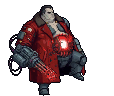
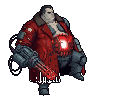
Basili phase-2 stomp: torn skirt (hanging strips like the phase-2 walk hem); torn_hem.py added to the skill
Claude-Session: https://claude.ai/code/session_01KZt8jCbpv5PPyFyQcbK33v

Changed region(s): [[0.3158, 0.7188, 0.5263, 0.875], [0.2632, 0.8125, 0.2895, 0.8438], [0.2632, 0.75, 0.2895, 0.7812]]

diff --git a/.claude/skills/phase-variant-transfer/scripts/torn_hem.py b/.claude/skills/phase-variant-transfer/scripts/torn_hem.py
@@ -1,0 +1,43 @@
+"""Torn skirt for phase-2 frames, modelled on the approved phase-2 walk hem: the bottom band of the coat skirt
+turns into hanging strips (dark red, from the walk's tatter colours) with gaps between them. The strip pattern
+is tied to the skirt's left edge so it moves with the coat from frame to frame."""
+import numpy as np
+from PIL import Image
+OUT=np.array([7,6,15])
+red=lambda a:(a[...,3]>0)&(a[...,0]>a[...,2]+30)&(a[...,0]<200)&(a[...,1]<110)
+p=np.array(Image.open(__import__('sys').argv[1]).convert('RGBA')).astype(int)
+reg=p[70:92,10:42].reshape(-1,4); TP=np.array(sorted({tuple(c[:3]) for c in reg if c[3]>0 and c[0]>c[2]+25 and c[0]<200},key=sum))
+GAP=[0,0,1,0,0,1,1,0,0,0,1,0,0,1,0,1,0,0,0,1,1,0,0,1]           # 1 = gap column
+LEN=[11,13,9,12,10,14,8,12,11,9,13,10,12,8,11,14,9,12,10,13,9,11,12,10]   # band depth per column
+def hem_cols(m,ymin):
+    cols={}
+    for x in range(m.shape[1]):
+        ys=np.where(m[ymin:,x])[0]
+        if len(ys): cols[x]=ymin+ys.max()
+    return cols
+def apply(src1,src2,dst):
+    t1=np.array(Image.open(src1).convert('RGBA')).astype(int); f=np.array(Image.open(src2).convert('RGBA')).astype(int)
+    H,W=t1.shape[:2]; m=red(t1); TC=hem_cols(m,H//2)
+    xs=sorted(TC); runs=[[xs[0]]]
+    for x in xs[1:]:
+        if x-runs[-1][-1]<=5: runs[-1].append(x)
+        else: runs.append([x])
+    seg=[x for x in max(runs,key=len) if x in TC]; L=seg[0]; n=0
+    lum=lambda c: c[:3].sum()
+    for x in seg:
+        i=(x-L)%len(GAP); b=TC[x]; depth=LEN[i]
+        for k in range(depth):
+            y=b-k
+            if y<0 or not m[y,x] or not red(f[y:y+1,x:x+1])[0,0]: continue
+            if GAP[i] and k< depth-2: f[y,x]=0; n+=1                           # gap between strips
+            elif k<2 and (x+k)%3==0: f[y,x]=0; n+=1                            # ragged strip ends
+            else:
+                c=f[y,x]; tt=min(len(TP)-1,int(lum(c)/600*len(TP)*0.8)); f[y,x,:3]=TP[tt]; n+=1   # burnt tatter colour
+    al=f[...,3]>0
+    for y in range(H):
+        for x in range(W):
+            if al[y,x] and red(f[y:y+1,x:x+1])[0,0] and any(not(0<=yy<H and 0<=xx<W) or not al[yy,xx] for yy,xx in ((y+1,x),(y-1,x),(y,x+1),(y,x-1))):
+                f[y,x,:3]=OUT
+    Image.fromarray(f.astype(np.uint8)).save(dst); return (L,seg[-1],n)
+A=__import__('sys').argv[2]
+for i in range(12): print(i,apply(A+f'boss_stomp_{i:02d}.png',A+f'boss_p2_stomp_{i:02d}.png',f'pvt/stomp/hem_{i:02d}.png'))

diff --git a/.claude/skills/phase-variant-transfer/SKILL.md b/.claude/skills/phase-variant-transfer/SKILL.md
@@ -37,6 +37,12 @@ Art session routine (Basili phase-2 walk and gatling). Output is PNG frames. Han
   - Region copies ignore the ref barrel area, so old barrel pixels never land on legs.
 - It drops loose bits of 6 px or fewer that the edit cut off, and prints one JSON report per frame.
 
+## Torn skirt when the pose differs
+When the coat skirt moves too much for a region copy (stomp, kneel), run `scripts/torn_hem.py`.
+It turns the skirt's bottom band into hanging strips with gaps, using the tatter colours of the approved frame, so the hem matches the walk.
+The strip pattern is tied to the skirt's left edge, so it stays put on the coat from frame to frame.
+(The script's frame loop is written for the stomp set; adapt the last lines for another motion.)
+
 ## Checks (all must pass before showing)
 - `parts` 1: one body. `bbox_in == bbox_out`: same size and ground line as phase 1.
 - `new_colours` 0: only phase-1 and reference colours.
